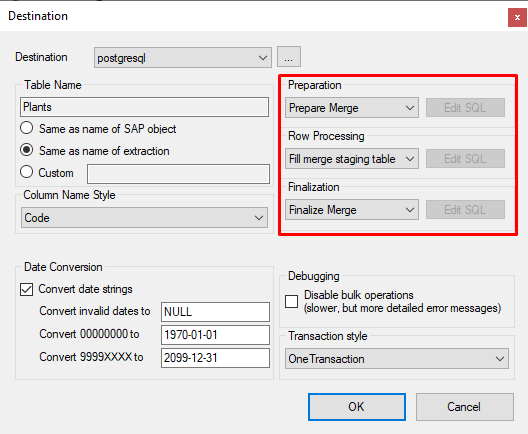
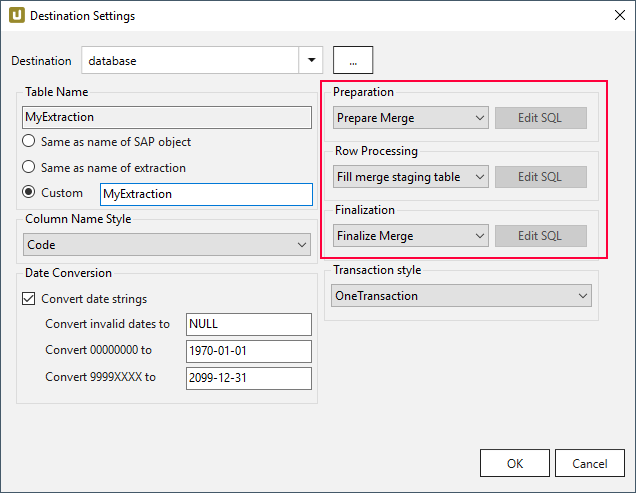
postgres merge

diff --git a/_includes/_content/en/xu-specific/xu-destinations/merge-data/db-merge-data.md b/_includes/_content/en/xu-specific/xu-destinations/merge-data/db-merge-data.md
@@ -1,14 +1,17 @@
-Now we change the extraction specific settings and set 
+### Merge command in Xtract Universal
 
-- Preparation on *Prepare Merge,* to create a temporary staging table.
-- Row Processing on *Fill merge staging table* to add data to the staging table and 
-- Finalization to *Finalize Merge* to merge the staging table with the target table and then delete the staging table.
-
+1. In the main window of the Designer, select the respective extraction and click **[Destination]**. The window "Destination Settings" opens.
+{% include _content/en/xu-specific/xu-destinations/merge-data/db-merge-data.md  %}
+2. Make sure to choose the correct destination (e.g., PostgreSQL target database). 
+3. Navigate to the right part of the "Destination Settings" window and apply the following settings:
+- **Preparation** to *Prepare Merge* to create a temporary staging table
+- **Row Processing** to *Fill merge staging table* to add data to the staging table and 
+- **Finalization** to *Finalize Merge* to merge the staging table with the target table and then delete the staging table.
 ![Extraction-Specific-Settings-Merge-Makt](/img/content/xu/destination_data_merge.png){:class="img-responsive"}
 
-The Merge command ensures that new records are inserted or existing records are updated. <br>
-An update is executed for existing data records, otherwise an insert.
+The merge command ensures delta processing: new records are inserted into the database and / or existing records are updated. <br>
 
-Which fields are updated can be found in the SQL statement ([Custom SQL only](https://help.theobald-software.com/en/xtract-universal/xu-destinations/microsoft-sql-server/sql-server-custom-sql)). <br>
-Here you can change the SQL statement if necessary, for example to exclude certain columns from the update.<br>
+Information about the exact fields that are updated can be found in the SQL statement ([Custom SQL only](https://help.theobald-software.com/en/xtract-universal/xu-destinations/microsoft-sql-server/sql-server-custom-sql)). <br>
+
+It is possible to edit the SQL statement if necessary, e.g.,to exclude certain columns from the update.<br>
 Fields that do not appear in the SQL statement are not affected by changes.

diff --git a/content/_en/xtract-universal/xu-destinations/postgreSQL/postgres-merge-data.md b/content/_en/xtract-universal/xu-destinations/postgreSQL/postgres-merge-data.md
@@ -1,8 +1,8 @@
 ---
 ref: xu-postgres-05
 layout: page
-title: Merge Data
-description: merge Data
+title: Merging Data
+description: How to merge Data
 product: xtract-universal
 parent: postgreSQL
 permalink: /:collection/:path
@@ -10,21 +10,25 @@ weight: 5
 lang: en_GB
 ---
 
-In this example we want to update existing records.<br>
+The following example depicts the update of the existing records in a database.<br>
 
-It is important that an appropriate index is created to quickly execute the merge command. Without an index, the execution of the merge command would take a long time depending on the amount of data. 
+{:.box-tip}
+**Note:** Create an appropriate index to quickly execute the merge command. Without an appropriate index, the execution of the merge command takes more time depending on the amount of data. 
 
-Let's take a look at the record for work 1200, the field NAME2 has the value NULL.
+### Updating a value in a database
+
+1. In a table (T001W) "Plants" there is a record "WERK 1200" with the value *NULL* in the field **NAME2**.
 
 ![Select-Before-Merge](/img/content/xu/select_werks_1200.png){:class="img-responsive"}
 
-Now we overwrite the field NAME2 with the value 'Hamburg'.
+2. Field NAME2 is updated with the value 'Hamburg'.
 
 ![Update-Merge-Example-Data](/img/content/xu/update_werks_1200.png){:class="img-responsive"}
 
 {% include _content/en/xu-specific/xu-destinations/merge-data/db-merge-data.md  %}
 
-During execution, the field *NAME2* was updated with the value from SAP.
+### Checking the updated data in the database
+Check the database for the updated records. In the given example, the field *NAME2* was updated with the value from SAP during execution.
 
 ![Merge-Result-Table-Data](/img/content/xu/merge_name2_werks_1200.png){:class="img-responsive"}
 
